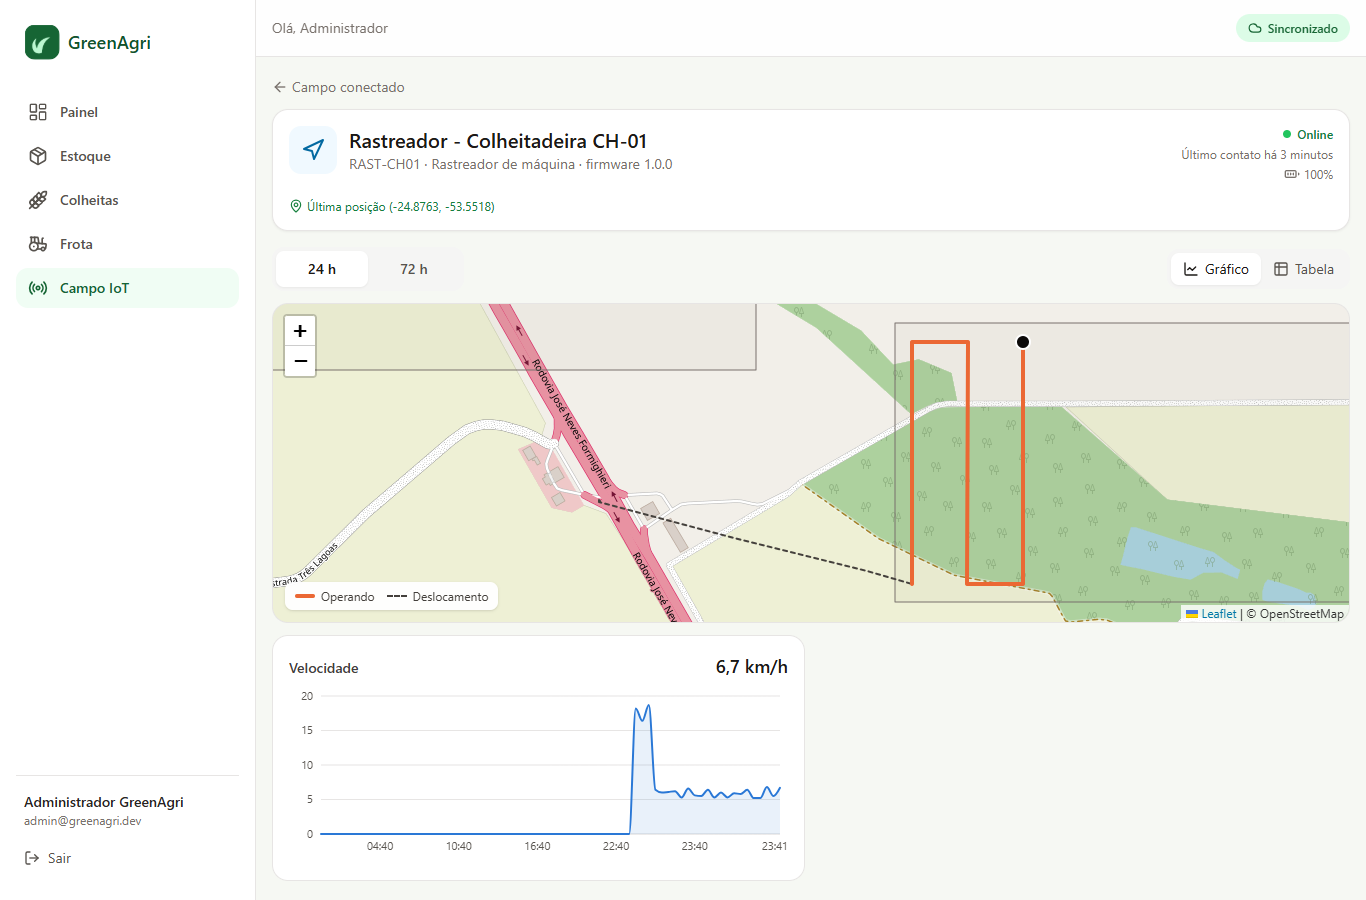
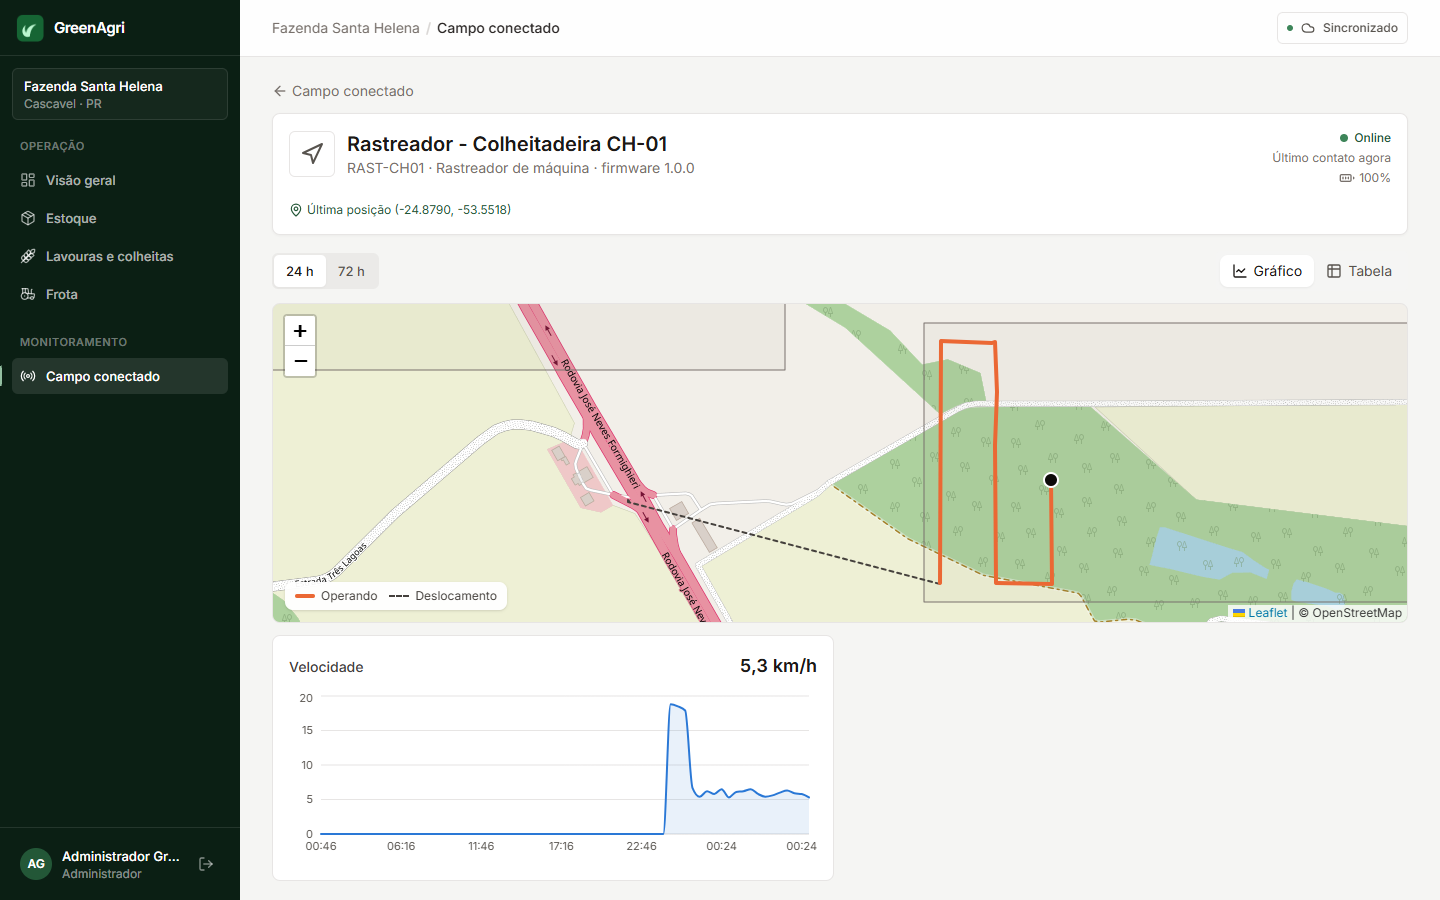
docs: refresh README and screenshots for the new UI

diff --git a/README.md b/README.md
@@ -1,9 +1,9 @@
-# 🌱 GreenAgri
+# GreenAgri
 
 **Gestão da fazenda no celular, inclusive sem sinal.** Controle o estoque de grãos e insumos, acompanhe as colheitas por talhão, organize a frota e receba alertas dos sensores instalados no campo, tudo num só app.
 
 <p align="center">
-  <img src="docs/img/mobile-painel.png" width="230" alt="Painel no celular">
+  <img src="docs/img/mobile-painel.png" width="230" alt="Visão geral no celular, com fotos do campo">
   <img src="docs/img/mobile-estoque-offline.png" width="230" alt="Lançamento de estoque feito offline">
   <img src="docs/img/mobile-campo.png" width="230" alt="Sensores de campo">
 </p>
@@ -12,13 +12,27 @@
 
 ## O que dá para fazer
 
-### 📦 Estoque
+### Visão geral
+- A tela inicial abre com um **carrossel de fotos do campo** (plantio, lavoura, adubação), com a safra atual, a área em campo e o clima medido pela estação da fazenda por cima das fotos.
+- Logo abaixo ficam os indicadores do dia: produtos abaixo do mínimo, lavouras em aberto, máquinas na oficina e sensores online.
+
+<p align="center">
+  <img src="docs/img/desktop-painel.png" width="760" alt="Visão geral no computador, com carrossel de fotos do campo">
+</p>
+
+### Estoque
+- Veja todos os produtos numa tabela com **foto**, saldo, estoque mínimo e situação (*normal*, *atenção* ou *repor*).
+- **Adicione a foto do produto** pela câmera do celular ou pela galeria. O app reduz a imagem automaticamente, e isso funciona até offline.
 - Veja o saldo de cada produto (sacas, toneladas, litros, kg ou unidades) e quanto falta para o **estoque mínimo**.
 - Registre **entradas** (compras, colheita), **saídas** (vendas, plantio, abastecimento) e **inventários** (contagem física).
 - O app **não deixa a saída passar do que existe**: se faltar produto, ele avisa antes de salvar.
 - Cada produto tem um **histórico completo**: quem lançou, quando e por quê.
 
-### 🗺 Lavouras no mapa
+<p align="center">
+  <img src="docs/img/desktop-estoque.png" width="760" alt="Tabela de estoque com fotos dos produtos">
+</p>
+
+### Lavouras no mapa
 - Veja **todos os talhões da fazenda no mapa**, cada um colorido pela situação da lavoura: *planejada*, *em desenvolvimento*, *em colheita* ou *concluída*.
 - Use **Em campo agora** para ver o que ocupa cada talhão hoje, ou escolha uma **safra** (2024/25, 2025/26…) para ver as áreas e a rotação de culturas daquele ano.
 - Toque em um talhão para ver a lavoura, o histórico de mudanças de status e as safras anteriores.
@@ -30,7 +44,7 @@
   <img src="docs/img/desktop-mapa-safra.png" width="760" alt="Talhões no mapa filtrados pela safra 2025/26">
 </p>
 
-### 🌾 Colheitas
+### Colheitas
 - Cadastre cada lavoura num talhão: cultura, safra, data de plantio e previsão de colheita.
 - Avance a situação com um toque (*Registrar plantio* → *Iniciar colheita* → *Concluir*). Tudo fica no histórico, com quem fez e quando.
 - **A colheita começa sozinha:** quando a colheitadeira com rastreador liga a plataforma dentro do talhão, o app marca a lavoura como *em colheita*.
@@ -38,11 +52,11 @@
 - Acompanhe quanto falta para colher e a produtividade em **sacas por hectare**.
 - Ao **concluir** uma colheita, a produção **entra sozinha no estoque** do produto escolhido.
 
-### 🚜 Frota
+### Frota
 - Tratores, colheitadeiras, pulverizadores, caminhões e utilitários num só lugar.
 - Atualize o horímetro (ou o odômetro) e a data da próxima revisão. O app destaca as revisões que vencem em até 7 dias.
 
-### 📡 Campo IoT
+### Campo conectado (IoT)
 - Veja em tempo real os sensores da fazenda: **estação meteorológica**, **umidade do solo** nos talhões, **nível e temperatura dos silos** e o **rastreador da colheitadeira** (posição, velocidade e trajeto).
 - Receba alertas de **risco de geada**, **solo seco** (hora de irrigar), **grão aquecendo no silo** (acionar aeração) e **bateria fraca**.
 - **Silo × estoque**: o app compara o grão que o sensor mede dentro do silo com o que está lançado no estoque e avisa quando a diferença passa de 10%. Assim dá para descobrir perdas ou saídas que ninguém registrou.
@@ -59,7 +73,7 @@ O GreenAgri foi feito para quem trabalha onde o sinal cai.
 
 1. **Abra o app pelo menos uma vez com internet.** Ele guarda as telas e os últimos dados no aparelho.
 2. **Sem sinal, continue usando normalmente.** O selo no topo mostra **Offline** e quantos lançamentos estão esperando.
-3. **Os lançamentos ficam salvos no aparelho** e o saldo na tela já considera o que você lançou (com o aviso *não sincronizado*).
+3. **Os lançamentos ficam salvos no aparelho** e o saldo na tela já considera o que você lançou (com o selo *Na fila*).
 4. **Quando o sinal volta, tudo é enviado sozinho**, na ordem em que foi feito. Não precisa repetir nada, e nada é lançado em dobro.
 
 Se o servidor recusar algum lançamento (por exemplo, uma saída maior que o saldo real), ele aparece em **Sincronização**, com o motivo. Ali você pode tentar de novo ou descartar.
@@ -125,5 +139,5 @@ docker compose up --build
 **Tecnologias:** Java 21 · Spring Boot 3.5 · Spring Security (JWT) · JPA · Flyway · PostgreSQL/H2 · React 18 · TypeScript · Vite · Tailwind CSS · TanStack Query · IndexedDB (Dexie) · Workbox (PWA) · Recharts · Leaflet + OpenStreetMap · ESP32 + GNSS (C++/PlatformIO) · Docker · GitHub Actions
 
 <p align="center">
-  <img src="docs/img/desktop-painel.png" width="760" alt="Painel no computador">
+  <img src="docs/img/desktop-login.png" width="760" alt="Tela de entrada com fotos do campo">
 </p>

diff --git a/docs/DESENVOLVIMENTO.md b/docs/DESENVOLVIMENTO.md
@@ -136,6 +136,11 @@ src/
 5. **Consistência visual** (`offline/pendentes.ts`): o saldo exibido é a foto do servidor com os lançamentos pendentes aplicados por cima, e o histórico mostra os pendentes com o selo "na fila".
 6. **Sessão expirada** não apaga a fila: o app pede login novamente e continua de onde parou.
 
+### Imagens
+
+- **Fotos do campo** (`public/img/campo/`): usadas no carrossel da visão geral e da tela de entrada (`components/Carrossel.tsx`). Foram redimensionadas para até 1600 px e são pré-carregadas pelo service worker, então o carrossel funciona offline.
+- **Fotos de produto**: a coluna `produtos.imagem` (migração V3) guarda um caminho público (`/img/produtos/...`, usado nos dados de demonstração) ou uma *data URL* JPEG enviada pelo app. O app reduz a foto para até 800 px antes de enviar (`prepararFoto` em `components/ImagemProduto.tsx`), e a API recusa imagens acima de ~300 KB. Sem foto, aparece o ícone da categoria.
+
 ### Design responsivo
 
-Mobile-first com Tailwind: barra de navegação inferior e formulários em *bottom sheet* no celular, menu lateral e diálogos centralizados a partir de `lg`. Os campos numéricos usam `inputMode="decimal"` para abrir o teclado numérico, e os alvos de toque têm pelo menos 44 px.
+Mobile-first com Tailwind, tipografia Inter (empacotada localmente, funciona offline), paleta neutra com verde só nas ações principais: barra de navegação inferior e formulários em *bottom sheet* no celular, menu lateral e diálogos centralizados a partir de `lg`. Os campos numéricos usam `inputMode="decimal"` para abrir o teclado numérico, e os botões têm 40 px de altura no celular.
